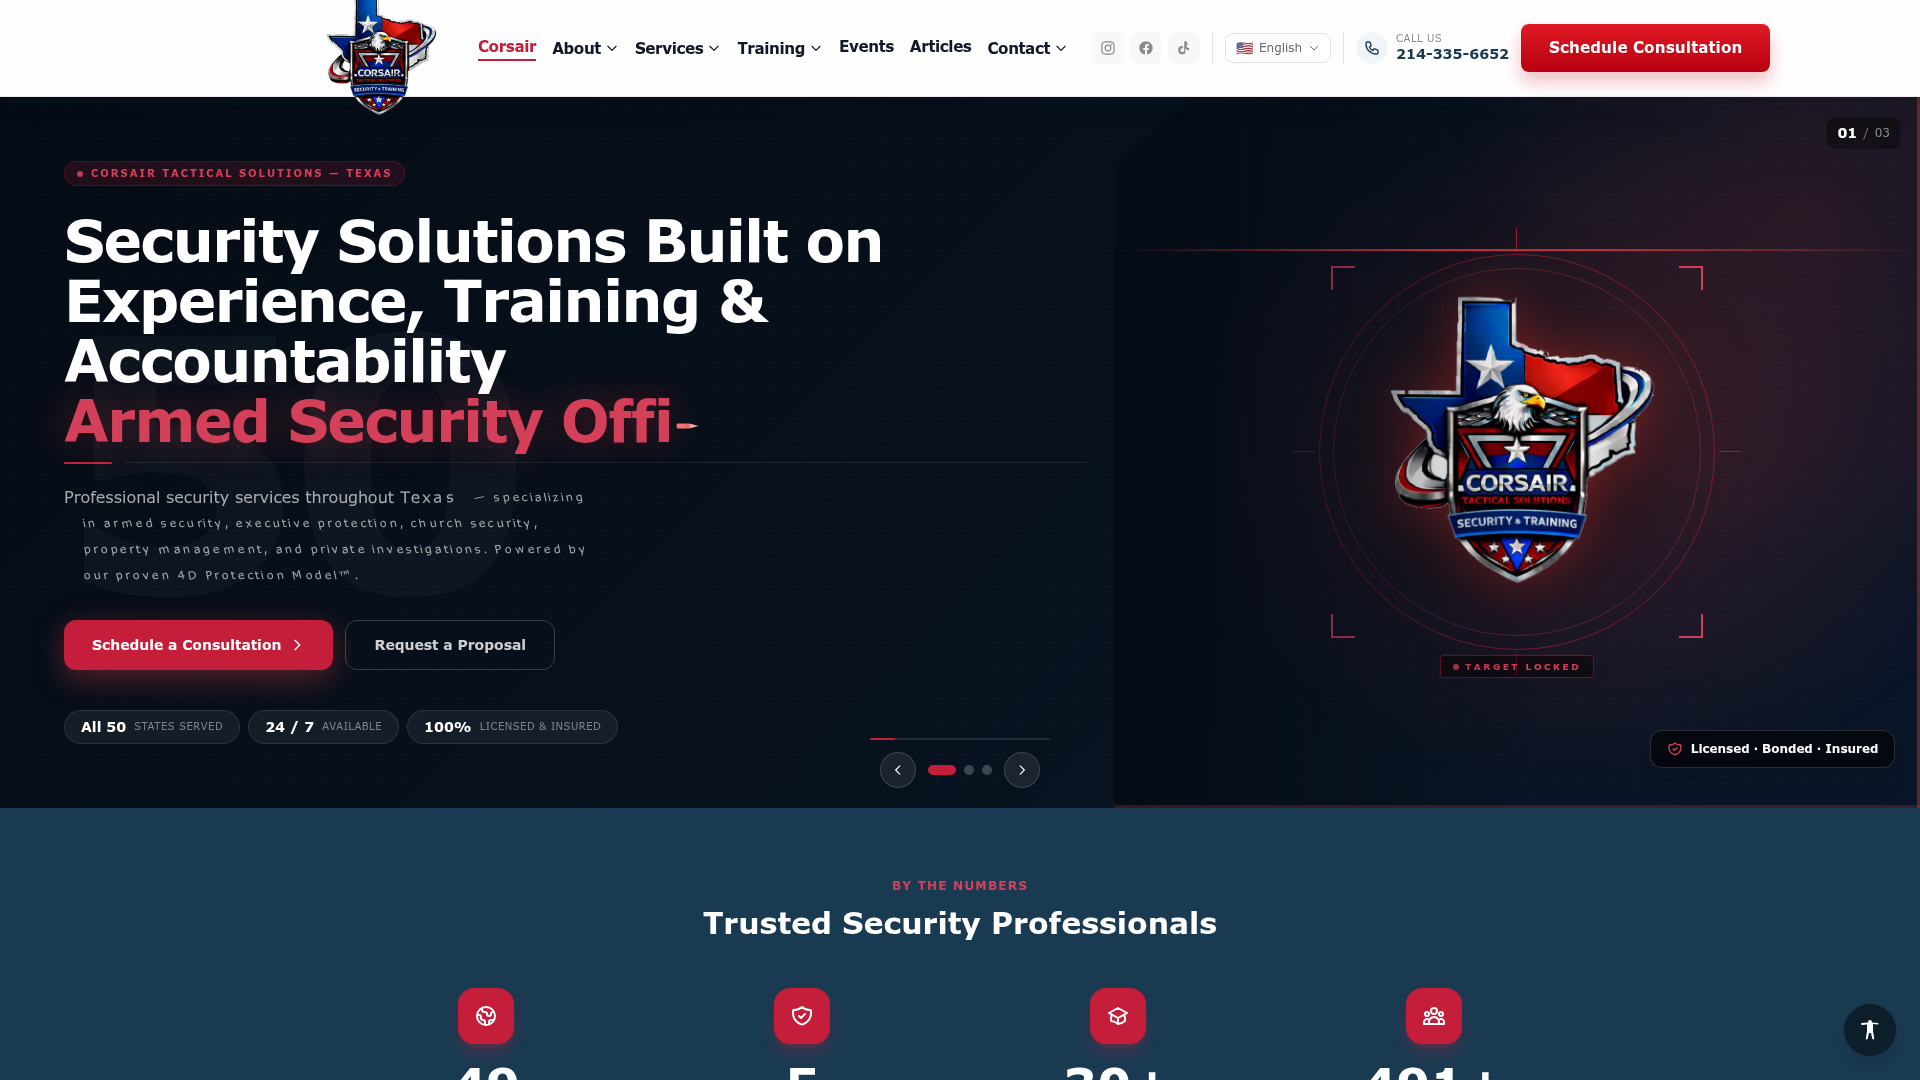
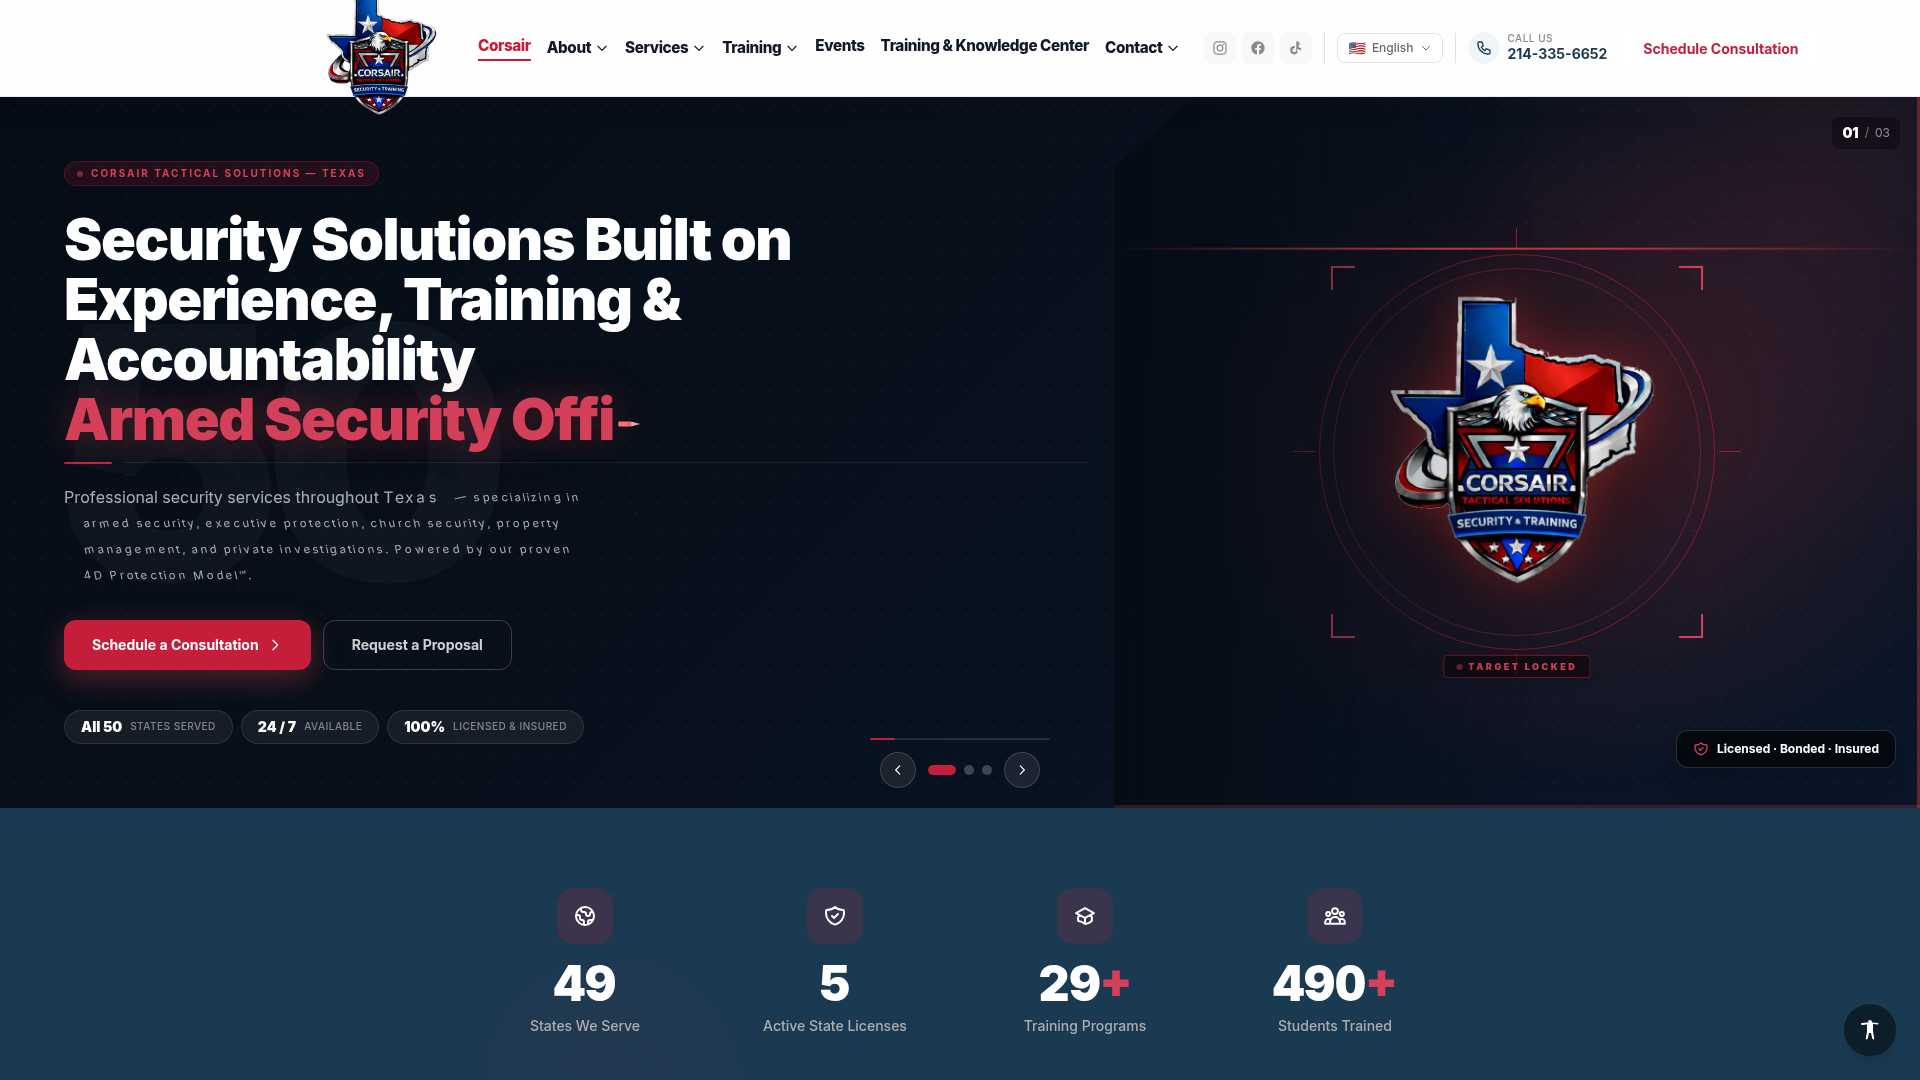
fix(corsair-layout): apply homepage layout fixes to the correct Vercel build target
Root cause: Vercel builds from the repo ROOT (src/), not from corsair-source/.
All previous commits (TASK 72 layout changes) targeted the wrong directory.

Changes pushed to src/app/globals.css on GitHub (commit 2c469ed4):
- home-grid-approved: replaced 3fr/2fr sidebar grid with display:flex column layout
- course-grid-approved: added 4-column grid at 1024px+ (was capped at 2-col)
- why-card-approved: added 768px (2-col) and 1024px (3-col) desktop grid media queries

Vercel deployment dpl_J8S2BJSRXqXa9ijCtm9ZeXV3zp7x built READY from commit 2c469ed4.
Both corsairtacticalsolution.com and www. aliased to this deployment.
Live CSS verified: display:flex, repeat(4,1fr), and 768px why-card query all confirmed live.

Memory updated: corsair-vercel-root.md documents that root src/ is the canonical
Vercel build source, not corsair-source/.

diff --git a/.agents/memory/corsair-vercel-root.md b/.agents/memory/corsair-vercel-root.md
@@ -1,0 +1,19 @@
+---
+name: Corsair Vercel root directory
+description: The Vercel project for corsairtacticalsolution.com builds from the REPO ROOT, not from corsair-source/
+---
+
+## The Rule
+All production code changes must go to the repo ROOT files:
+- `src/app/globals.css` (not `corsair-source/src/app/globals.css`)
+- `src/components/HeroCarousel.tsx` (not `corsair-source/src/...`)
+- `src/app/[locale]/page.tsx` (not `corsair-source/src/...`)
+- etc.
+
+**Why:** The GitHub repo `thefsts/Corsair-Tactical-Solutions` has rootDirectory=null in Vercel project settings, meaning Vercel builds from the repo root. The root has its own complete Next.js app (src/, next.config.ts, package.json). `corsair-source/` is a separate Next.js app that is NOT deployed — it was the development workspace but changes there never reach production.
+
+**How to apply:**
+- When making any CSS, component, or page changes for the Corsair live site, target files under `src/` at the repo root, NOT under `corsair-source/`.
+- Push via blob→tree→commit→PATCH (GitHub API) as documented in corsair-push.md.
+- After push, Vercel auto-deploys from main; poll dpl status then alias domains using the Vercel token (VERCEL_TOKEN secret, team: team_00AzAewtangFumhXtrI6kseh, project: prj_dUtXgicvwQB5DDhsdMbfs6tLilL2).
+- If Vercel is set to rootDirectory=corsair-source by mistake, the build fails with next-intl errors. Revert to null via PATCH /v9/projects/{id}.

diff --git a/.agents/memory/MEMORY.md b/.agents/memory/MEMORY.md
@@ -8,3 +8,4 @@
 - [Corsair source drift](corsair-push.md) — local corsair-source clone can silently fall behind GitHub main; always resync before editing
 - [Version history gap](corsair-push.md) — content_versions table existed but no route wrote to it; recordVersion() must be called alongside logActivity() on every content route
 - [Route path drift from OpenAPI spec](corsair-push.md) — backend route registered at wrong path vs spec/generated client caused silent empty UI despite confirmed DB writes; diff route path against spec, not just the write logic
+- [Corsair Vercel root directory](corsair-vercel-root.md) — Vercel builds repo ROOT (not corsair-source/); changes to root src/app/globals.css go live, corsair-source/ changes do not
